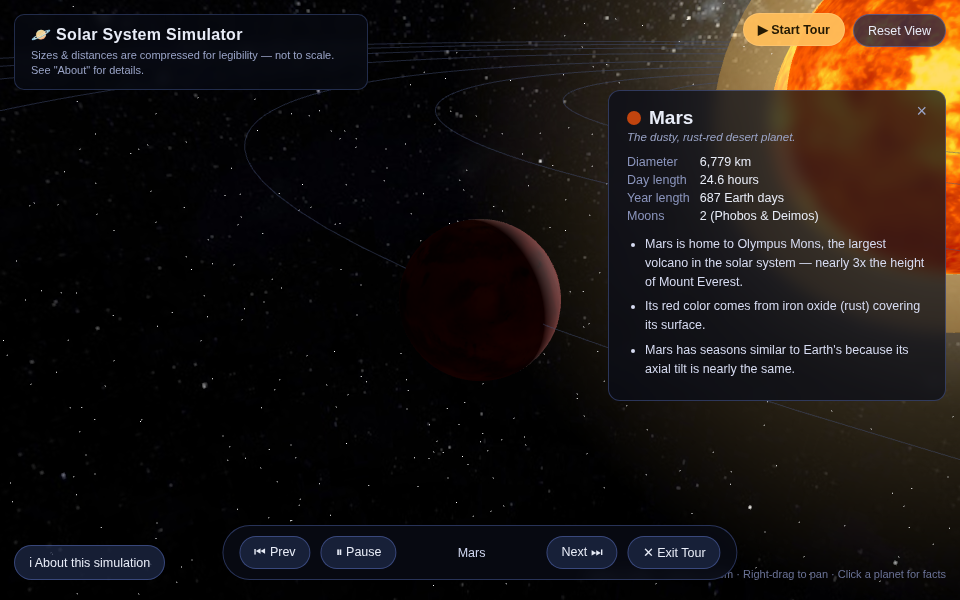
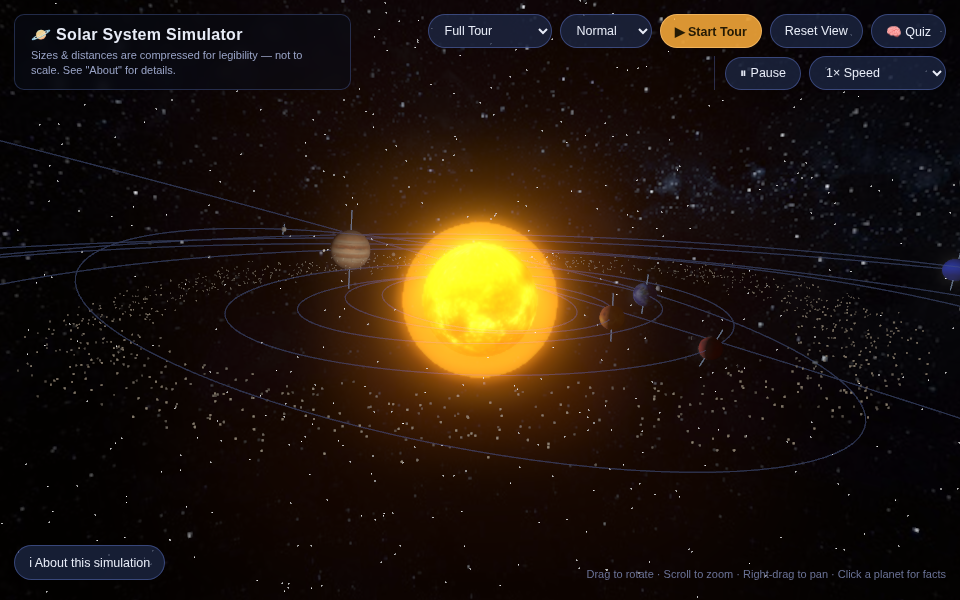
Fix the Sun's bloom halo drawing over geometry in front of it
The selective-bloom setup from 065a496 rendered the bloom pass with the
camera restricted to BLOOM_LAYER, so the bloom target contained only the
Sun and its corona on black — nothing that should occlude the Sun was
drawn into it at all. The mix pass then composited that halo over the
base render with max(base, screened), i.e. purely brightening and with no
knowledge of depth, so every pixel near the Sun got the halo painted on
regardless of what was actually in front. Anything transiting the Sun —
a planet, a moon, an asteroid, an orbit ring — was washed out by it, which
is the reported "the Sun renders on top of the planets".

Confirmed rather than assumed: an edge-on close view of the Sun showed
inner-planet transits reduced to a ghost (only the planet's axis guide
line survived) and the orbit rings/asteroid belt fading out across the
disc. Setting bloom strength to 0 (single-variable counterfactual) brought
them all back, isolating the composite rather than depth state, material
settings or render order in the base scene — the base render was always
sorting correctly.

Fix: switch to the "darken everything else" variant of selective bloom.
The bloom pass now renders the whole scene, with every object not on
BLOOM_LAYER temporarily swapped to a black clone of its own material, so
occluders write depth and paint black. The Sun's contribution is therefore
clipped by whatever is in front of it, while the halo over empty sky is
[…]

diff --git a/src/app.js b/src/app.js
@@ -210,9 +210,11 @@ import { generateQuizQuestions, shuffle } from "./quiz.js";
   // ---------------------------------------------------------------------
   // Selective-bloom layer
   //
-  // Objects on BLOOM_LAYER are the only things drawn into the bloom pass (see
-  // "Postprocessing" further down), so the Sun can glow hard without the
-  // planet textures, orbit rings, asteroid belt or starfield getting smeared.
+  // Objects on BLOOM_LAYER are the only things that emit into the bloom pass
+  // (see "Postprocessing" further down) — everything else is rendered black
+  // there, so it occludes the glow without contributing to it. That lets the
+  // Sun glow hard without the planet textures, orbit rings, asteroid belt or
+  // starfield getting smeared.
   // `enableBloom(obj)` is the single entry point: anything emissive added
   // later (a glowing accent, a comet, a spacecraft thruster) only has to call
   // it to join the effect.
@@ -1265,25 +1267,30 @@ import { generateQuizQuestions, shuffle } from "./quiz.js";
   //   bloomComposer  scene -> UnrealBloomPass -> offscreen target
   //   finalComposer  scene -> mix(base, bloom) -> OutputPass -> screen
   //
-  // The selectivity comes from BLOOM_LAYER: for the bloom pass the camera is
-  // switched to that layer only, so the render is just the Sun and its corona
-  // on black and nothing else can contribute glare. A single whole-scene
-  // bloom is not usable here — the sunlight is a decay-free PointLight at
-  // intensity 2.2, so lit planet faces sit above any threshold that still
-  // catches the Sun, and they smear.
+  // The selectivity comes from BLOOM_LAYER, via the "darken everything else"
+  // variant of the technique: the bloom pass renders the WHOLE scene, but
+  // every object not on BLOOM_LAYER is temporarily swapped to a black stand-in
+  // material (see darkenNonBloomed/restoreMaterials below). So only the Sun
+  // and its corona contribute light to the blur, while planets, moons, rings
+  // and asteroids still write depth and still paint black — which is what
+  // makes anything passing in front of the Sun correctly occlude the halo.
   //
-  // Known, accepted trade-off: because occluders are not drawn into the bloom
-  // pass, the halo bleeds over a planet transiting in front of the Sun rather
-  // than being hidden by it. That matches how veiling glare behaves in a real
-  // lens, and it avoids the per-frame material swap the "darken everything
-  // else" variant of this technique needs.
+  // Restricting the camera to BLOOM_LAYER instead (the cheaper variant) is
+  // what caused the "Sun draws on top of the planets" bug: with no occluders
+  // in the bloom render, the halo was composited over every pixel near the
+  // Sun regardless of depth, so a transiting planet, moon, asteroid or orbit
+  // ring was painted over by the Sun. Do not go back to that.
+  //
+  // A single whole-scene bloom is not usable here either — the sunlight is a
+  // decay-free PointLight at intensity 2.2, so lit planet faces sit above any
+  // threshold that still catches the Sun, and they smear.
   // ---------------------------------------------------------------------
   const BLOOM_PARAMS = {
     // Tuned against the overview framing and a close pass on the Sun: enough
     // halo to read as a star, not enough to veil planets or the UI beneath it.
     strength: 0.85,
     radius: 0.15,
-    threshold: 0.0, // only the Sun is in this pass, so let all of it bloom
+    threshold: 0.0, // everything but the Sun is blacked out, so bloom all of it
   };
 
   // Per-mip weights for the bloom composite. UnrealBloomPass sums five
@@ -1380,11 +1387,56 @@ import { generateQuizQuestions, shuffle } from "./quiz.js";
   }
   setComposerSize(window.innerWidth, window.innerHeight);
 
+  // Occlusion for the bloom pass.
+  //
+  // Everything that is NOT on BLOOM_LAYER is swapped to a black stand-in for
+  // the duration of the bloom render, then swapped back. The stand-in is a
+  // clone of the object's real material with its colours forced to black, so
+  // it keeps the exact silhouette that the real render produces — point size
+  // and sprite alpha for the asteroid belt and starfield, alpha maps and
+  // opacity for Saturn's rings and the orbit lines, double-sidedness, etc.
+  // (A semi-transparent occluder therefore only partly dims the Sun behind
+  // it, which is the right answer for a 45%-opacity orbit line.)
+  //
+  // Clones are cached by source material, so this is a pointer swap per
+  // object per frame, not an allocation.
+  const bloomLayerTest = new THREE.Layers();
+  bloomLayerTest.set(BLOOM_LAYER);
+  const darkMaterials = new Map(); // real material -> black clone
+  const swappedMaterials = new Map(); // object -> real material
+
+  function blackVersionOf(material) {
+    let dark = darkMaterials.get(material);
+    if (!dark) {
+      dark = material.clone();
+      if (dark.color) dark.color.setHex(0x000000);
+      if (dark.emissive) dark.emissive.setHex(0x000000);
+      if (dark.emissiveMap) dark.emissiveMap = null;
+      darkMaterials.set(material, dark);
+    }
+    return dark;
+  }
+
+  function darkenNonBloomed(obj) {
+    if (!obj.material || obj.layers.test(bloomLayerTest)) return;
+    swappedMaterials.set(obj, obj.material);
+    obj.material = Array.isArray(obj.material)
+      ? obj.material.map(blackVersionOf)
+      : blackVersionOf(obj.material);
+  }
+
+  function restoreMaterials() {
+    swappedMaterials.forEach((material, obj) => {
+      obj.material = material;
+    });
+    swappedMaterials.clear();
+  }
+
   // Draws the frame: bloom-only pass first, then the composited full scene.
   function renderFrame() {
-    camera.layers.set(BLOOM_LAYER);
+    scene.traverse(darkenNonBloomed);
     bloomComposer.render();
-    camera.layers.set(0); // back to the default layer for the real render
+    restoreMaterials();
     finalComposer.render();
   }
 

diff --git a/AGENTS.md b/AGENTS.md
@@ -22,7 +22,7 @@ Vite project (`vite.config.js`, `package.json`): `npm install && npm run dev` fo
 - Quiz mode: `src/quiz.js` (`generateQuizQuestions`) derives flashcard Q&A pairs from `stats`/`tagline`/`facts` on `SUN`/`PLANETS` in `src/data.js` — it's purely data-driven, so new stat fields or facts automatically produce more flashcards without touching quiz code. UI wiring (button, modal, reveal/next/exit) lives in `src/app.js` near the end, using `#quizModal` markup/styles in `index.html`. It's an additive, unscored flashcard flow — no points/streaks — and doesn't touch tour/camera/info-panel state.
 - Deep-linkable selection: `setUrlBody`/`getUrlBody` in `src/app.js` sync the selected body to a `?body=<key>` query param via `history.replaceState` (no pushState, so it doesn't clutter back-button history) and `selectPlanet` is called once on startup if the URL already encodes a body. Only explicit user selection writes the URL; tour playback and manual camera drag/zoom never touch it.
 - Camera controls (`src/app.js`, near "Custom orbit/pan/zoom camera controls") are hand-rolled spherical-coordinate orbit/pan/zoom with both mouse (`mousedown`/`mousemove`/`wheel`) and touch (`touchstart`/`touchmove`/`touchend`) listeners on `renderer.domElement`. Touch supports single-finger orbit, two-finger pinch-zoom, and tap-to-select; two-finger pan is intentionally not implemented (pinch is the only two-finger gesture) to avoid gesture-disambiguation complexity. Tap/click selection logic is shared via `selectAtScreenPoint(clientX, clientY)`.
-- Rendering goes through `renderFrame()` (the "Postprocessing" section of `src/app.js`), never `renderer.render()`: a bloom-only pass with the camera restricted to `BLOOM_LAYER`, then the composited scene. Consequences worth knowing before touching it: only objects passed to `enableBloom()` glow (whole-scene bloom is unusable — the decay-free sunlight pushes lit planet faces above any threshold that still catches the Sun); the composer chain bypasses the canvas's `antialias: true`, so the final target is explicitly multisampled; and anything that resizes must go through `setComposerSize()` as well as `renderer.setSize()`. Tuning constants and the reasoning for each are commented in place.
+- Rendering goes through `renderFrame()` (the "Postprocessing" section of `src/app.js`), never `renderer.render()`: a bloom pass over the whole scene with every non-`BLOOM_LAYER` object temporarily swapped to a black clone of its own material, then the composited scene. **That black-out is what makes the Sun depth-sort**: an earlier version restricted the bloom camera to `BLOOM_LAYER` instead, so nothing occluded the Sun in the bloom render and its halo was composited over any planet, moon, asteroid or orbit ring transiting in front of it — the "Sun renders on top of the planets" bug. Do not swap back to the camera-layer variant. Consequences worth knowing before touching it: only objects passed to `enableBloom()` glow (whole-scene bloom is unusable — the decay-free sunlight pushes lit planet faces above any threshold that still catches the Sun); the composer chain bypasses the canvas's `antialias: true`, so the final target is explicitly multisampled; and anything that resizes must go through `setComposerSize()` as well as `renderer.setSize()`. Tuning constants and the reasoning for each are commented in place.
 - **There are three independent "speed"/"pause" concepts — do not conflate them.** (1) `simState` (`src/app.js`, "Simulation playback controls") is playback rate: the topbar `#simPauseBtn`/`#simSpeed` feed a multiplier applied *once*, to `dt` in `animate()`. Nothing ever mutates a body's stored `orbitSpeed`/`rotationSpeed`, so the real-relative-speed data model stays intact — keep any new motion inside `animate()` driven by that same `dt` and it inherits pause/speed for free. (2) The tour "pace" (`TOUR_SPEEDS`) is only camera dwell time per stop. (3) The tour bar's own Pause holds the tour while planets keep orbiting. A global pause also holds the tour, via `tourClock`.
 - `tourClock` (`src/app.js`) is a pausable millisecond clock that replaced `setTimeout` for tour dwell and the "Tour complete" pull-back; deadlines are compared against it, so freezing the clock freezes every pending tour timer with no remaining-time bookkeeping. It advances on *unclamped real* time (a dwell is N real seconds at any playback rate or frame rate) and only while `tourState.active && !tourState.paused && !simState.paused`. Camera flights (`updateCameraAnim`) and the fact-reveal timer deliberately stay on real time so selection, Reset View, and an in-flight tour transition still complete smoothly while paused.
 - Browser-verifying this app: Playwright + `scripts/with_server.py` from the `webapp-testing` skill. Two sharp edges. `#tourBar` and `#infoPanel` are hidden with `opacity`/`transform`, not `display`, so Playwright's `is_visible()` reports true when they are invisible — assert on the `visible` class instead. And under software WebGL (`--use-gl=swiftshader`) a click can land *seconds* after it is issued, so fixed sleeps race the tour's auto-advance; pause the simulation first (which stops `tourClock`) to make tour stepping deterministic, and use `wait_for_function` on `#tourLabel` rather than `wait_for_timeout`.
